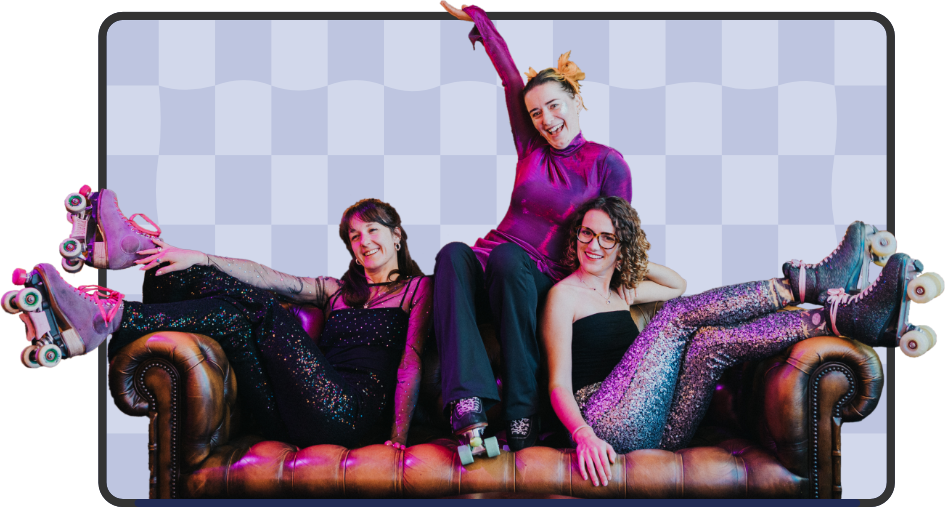
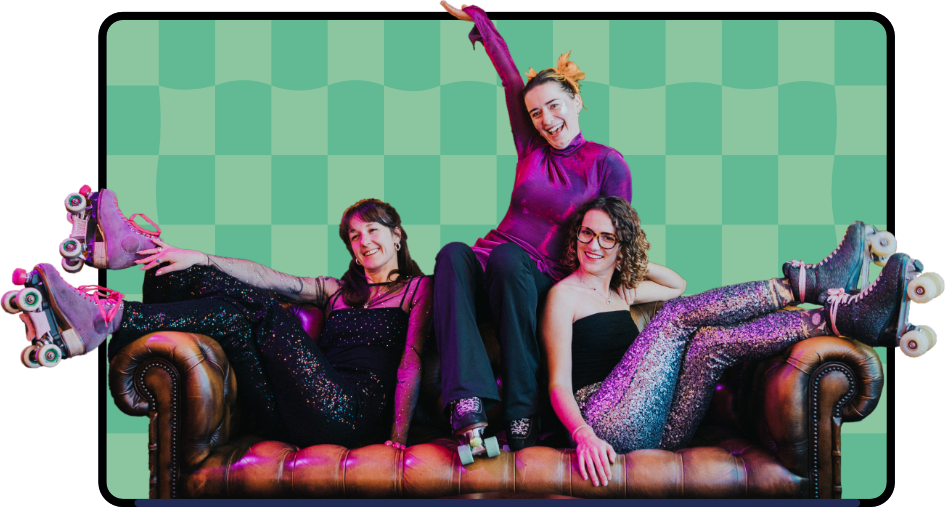
rebrand v1.1

diff --git a/rollerdiscos.html b/rollerdiscos.html
@@ -6,10 +6,10 @@
     <title>Roller Discos - BDX Rollergirls</title>
     <link rel="preconnect" href="https://fonts.googleapis.com">
     <link rel="preconnect" href="https://fonts.gstatic.com" crossorigin>
-    <link href="https://fonts.googleapis.com/css2?family=Bai+Jamjuree:ital,wght@0,200;0,300;0,400;0,500;0,600;0,700;1,200;1,300;1,400;1,500;1,600;1,700&family=Bungee&family=Bungee+Outline&family=Courier+Prime:ital,wght@0,400;0,700;1,400;1,700&family=Poppins:ital,wght@0,100;0,200;0,300;0,400;0,500;0,600;0,700;0,800;0,900;1,100;1,200;1,300;1,400;1,500;1,600;1,700;1,800;1,900&display=swap" rel="stylesheet">
+    <link href="https://fonts.googleapis.com/css2?family=Funnel+Display:wght@300..800&family=Poppins:wght@300;400;500;600&display=swap" rel="stylesheet">
     <link href="https://fonts.googleapis.com/css2?family=Bai+Jamjuree:ital,wght@0,200;0,300;0,400;0,500;0,600;0,700;1,200;1,300;1,400;1,500;1,600;1,700&family=Bungee&family=Courier+Prime:ital,wght@0,400;0,700;1,400;1,700&family=Poppins:ital,wght@0,100;0,200;0,300;0,400;0,500;0,600;0,700;0,800;0,900;1,100;1,200;1,300;1,400;1,500;1,600;1,700;1,800;1,900&display=swap" rel="stylesheet">
     <link rel="stylesheet" href="stylesheet.css">
-    <link rel="stylesheet" href="session-street.css">
+    <link rel="stylesheet" href="rollerdiscos.css">
 </head>
 <body>
 
@@ -47,7 +47,7 @@
                                 <li><img alt="Adresse : " class="picto" src="assets/icons/map.svg">186 Quai Richelieu, 33000 Bordeaux</li>
                                 <li><img alt="Adresse : " class="picto" src="assets/icons/calendar.svg">Vendredi, 18h30</li>
                             </ul> -->
-                             <ul>
+                             <ul class="info-list">
                                 <li><img alt="Lieu : " class="picto" src="assets/icons/at.svg">Delirium Café Bordeaux</li>
                                 <li><img alt="Adresse : " class="picto" src="assets/icons/map.svg">30 Quai Virginie Hériot, 33300 Bordeaux</li>
                                 <li><img alt="Adresse : " class="picto" src="assets/icons/calendar.svg">Un mardi par trimestre, de 20h30 à 23h30</li>

diff --git a/meetups.html b/meetups.html
@@ -6,10 +6,10 @@
     <title>Meetups - BDX Rollergirls</title>
     <link rel="preconnect" href="https://fonts.googleapis.com">
     <link rel="preconnect" href="https://fonts.gstatic.com" crossorigin>
-    <link href="https://fonts.googleapis.com/css2?family=Bai+Jamjuree:ital,wght@0,200;0,300;0,400;0,500;0,600;0,700;1,200;1,300;1,400;1,500;1,600;1,700&family=Bungee&family=Bungee+Outline&family=Courier+Prime:ital,wght@0,400;0,700;1,400;1,700&family=Poppins:ital,wght@0,100;0,200;0,300;0,400;0,500;0,600;0,700;0,800;0,900;1,100;1,200;1,300;1,400;1,500;1,600;1,700;1,800;1,900&display=swap" rel="stylesheet">
+    <link href="https://fonts.googleapis.com/css2?family=Funnel+Display:wght@300..800&family=Poppins:wght@300;400;500;600&display=swap" rel="stylesheet">
     <link href="https://fonts.googleapis.com/css2?family=Bai+Jamjuree:ital,wght@0,200;0,300;0,400;0,500;0,600;0,700;1,200;1,300;1,400;1,500;1,600;1,700&family=Bungee&family=Courier+Prime:ital,wght@0,400;0,700;1,400;1,700&family=Poppins:ital,wght@0,100;0,200;0,300;0,400;0,500;0,600;0,700;0,800;0,900;1,100;1,200;1,300;1,400;1,500;1,600;1,700;1,800;1,900&display=swap" rel="stylesheet">
     <link rel="stylesheet" href="stylesheet.css">
-    <link rel="stylesheet" href="session-libre.css">
+    <link rel="stylesheet" href="meetups.css">
 </head>
 <body>
 
@@ -40,7 +40,7 @@
                         </div>
                         <div class="browser-bottom">
                             <h1 class="title-1">Meetups</h1>
-                            <ul>
+                            <ul class="info-list">
                                 <li><img alt="Lieu : " class="picto" src="assets/icons/at.svg">Un spot différent à Bordeaux</li>
                                 <!-- <li><img alt="Adresse : " class="picto" src="assets/icons/map.svg">176 rue Achard, 33300 Bordeaux</li> -->
                                 <li><img alt="Adresse : " class="picto" src="assets/icons/calendar.svg">Un lundi par mois · 19h00–20h30</li>

diff --git a/index.html b/index.html
@@ -17,6 +17,7 @@
     <link href="Sniglet-webfont.ttf" rel="stylesheet">
     <link rel="stylesheet" href="stylesheet.css">
     <link rel="stylesheet" href="index.css">
+</head>
 <body>
 
     <header>
@@ -32,7 +33,7 @@
     </header>
 
     <main>
-        <div class="temp-page">
+        <div class="page temp-page">
             <div class="browser">
                 <div class="browser-top">
                     <div class="circle"></div>
@@ -40,8 +41,16 @@
                     <div class="circle"></div>
                 </div>
                 <div class="browser-bottom">
-                <p class="level1">Bienvenue&nbsp!</p>
+                    <p class="level1">Bienvenue&nbsp!</p>
                     <img class="welcomeIMG" src="assets/session-libre.webp" alt="">
+                    <div class="next-event">
+                        <h2 class="title">Prochain Événtment&nbsp;:</h2>
+                        <div class="row">
+                            <h3 class="event-title">Meetup de septembre</h3>
+                            <p>07 septembre 2026 @ TBD, 19h - 20h30</p>
+                        </div>
+                        <a class="cta-2" href="https://www.helloasso.com/associations/bdx-rollergirls" target="_blank">Devenir adhérente !</a>
+                    </div>
                 </div>
             </div>
             <div class="planning-more-info">

diff --git a/stylesheet.css b/stylesheet.css
@@ -68,14 +68,20 @@ nav {
     display: flex;
     justify-content: center;
 }
+
 nav ul {
     list-style: none;
     display: flex;
     flex-wrap: wrap;
-    gap: 40px;
+    gap: 1.5rem 1rem;
     padding: 0;
-    margin-bottom: 60px;
+    margin-bottom: 44px;
     justify-content: center;
+}
+@media (min-width: 700px) {
+    nav ul {
+        gap: 40px;
+    }
 }
 nav ul li .link {
     background-color: var(--white100);
@@ -97,7 +103,7 @@ nav ul li  .link.active_link {
     color: var(--black900);
 }
 main {
-    padding: 2em;
+    /* padding: 2em; */
     text-align: center;
     flex-grow: 1;
     align-content: center;
@@ -175,7 +181,7 @@ a:hover{
     overflow: hidden;
     box-shadow: 10px 10px 0px 0px var(--green700);
     margin: auto;
-    transform: translateY(-55px);
+    /* transform: translateY(-55px); */
 }
 .cta-1 {
     padding: 12px 24px;
@@ -272,7 +278,7 @@ footer a:hover{
     margin-bottom: 6px;
 }
 .page {
-    padding: 0 20px;
+    padding: 0 16px;
     width: 100%;
     max-width: 1300px;
 }

diff --git a/index.css b/index.css
@@ -6,3 +6,16 @@
     height:100%;
     object-fit: contain;
 }
+.next-event>.title{
+    margin-bottom:1rem;
+}
+.event-title {
+    margin:0;
+    letter-spacing: 3px;
+    color: var(--green500);
+    text-transform: uppercase;
+    text-shadow: 1.5px 1.5px 0 var(--black900), 1.5px -1.5px 0 var(--black900), -1.5px 1.5px 0 var(--black900), -1.5px -1.5px 0 var(--black900), 1.5px 0px 0 var(--black900), 0px 1.5px 0 var(--black900), -1.5px 0px 0 var(--black900), 0px -1.5px 0 var(--black900);
+}
+.next-event .row {
+    margin-bottom: 1.5rem;
+}

diff --git a/meetups.css b/meetups.css
@@ -29,11 +29,11 @@
     z-index: 0;
     margin-top: 0;
 }
-ul {
+ul.info-list {
     padding: 0;
     list-style: none;
 }
-li{
+.info-list li{
     display: flex;
     align-items: center;
     justify-content: center;
@@ -47,7 +47,7 @@ img.picto{
     display: flex;
     /* flex-wrap: wrap-reverse; */
     flex-wrap: wrap;
-    margin-top: -70px;
+    margin-top: -40px;
     gap: 30px;
 }
 @media (min-width: 700px) {

diff --git a/rollerdiscos.css b/rollerdiscos.css
@@ -29,11 +29,11 @@
     z-index: 0;
     margin-top: 0;
 }
-ul {
+ul.info-list {
     padding: 0;
     list-style: none;
 }
-li{
+.info-list li{
     display: flex;
     align-items: center;
     justify-content: center;
@@ -63,7 +63,7 @@ img.picto{
 .second-row .left img {
     max-width: min(400px, 70vw);
     margin: auto;
-    margin-top: 15px;
+    margin-top: 45px;
     position: sticky;
     top: 0;
 }

diff --git a/adherentes.html b/adherentes.html
@@ -25,7 +25,7 @@
     </header>
 
     <main>
-        <div class="temp-page">
+        <div class="page temp-page">
             <div class="browser">
                 <div class="browser-top">
                     <div class="circle"></div>

diff --git a/initiation.html b/initiation.html
@@ -25,7 +25,7 @@
     </header>
 
     <main>
-        <div class="temp-page">
+        <div class="page temp-page">
             <div class="browser">
                 <div class="browser-top">
                     <div class="circle"></div>

diff --git a/locations.html b/locations.html
@@ -25,7 +25,7 @@
     </header>
 
     <main>
-        <div class="temp-page">
+        <div class="page temp-page">
             <div class="browser">
                 <div class="browser-top">
                     <div class="circle"></div>

diff --git a/schedule.css b/schedule.css
@@ -1,5 +1,4 @@
 .browser.browser-calendar {
-    margin-top: 40px;
     background: var(--white100);
 }
 @media (min-width: 700px) {
